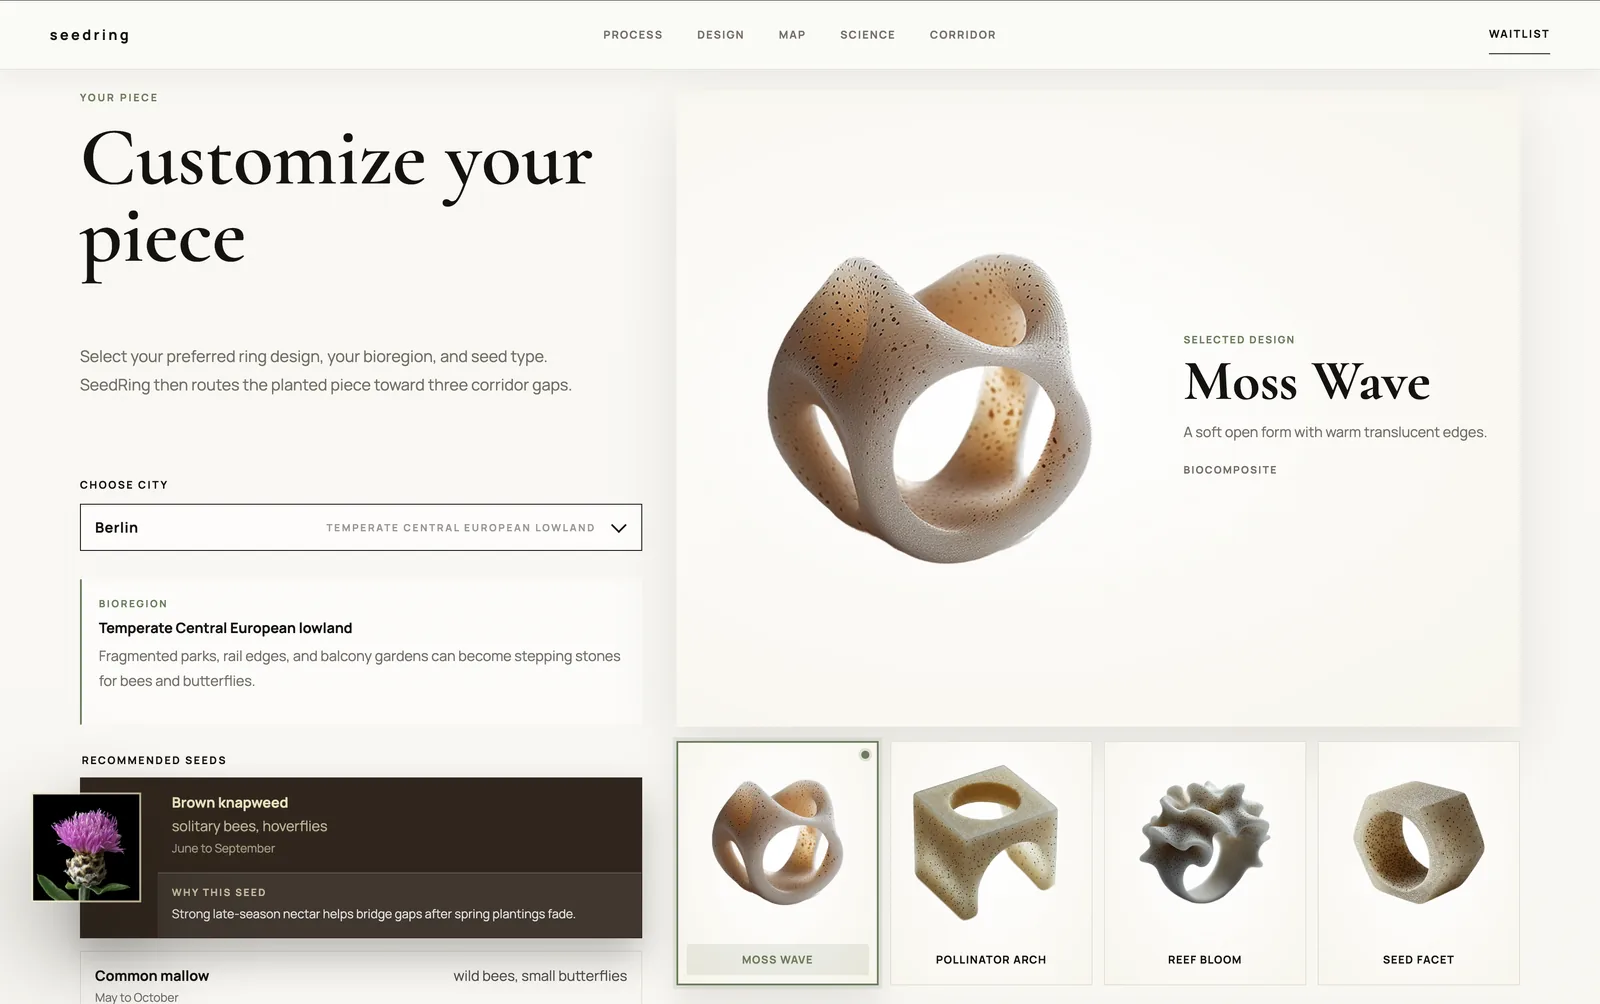
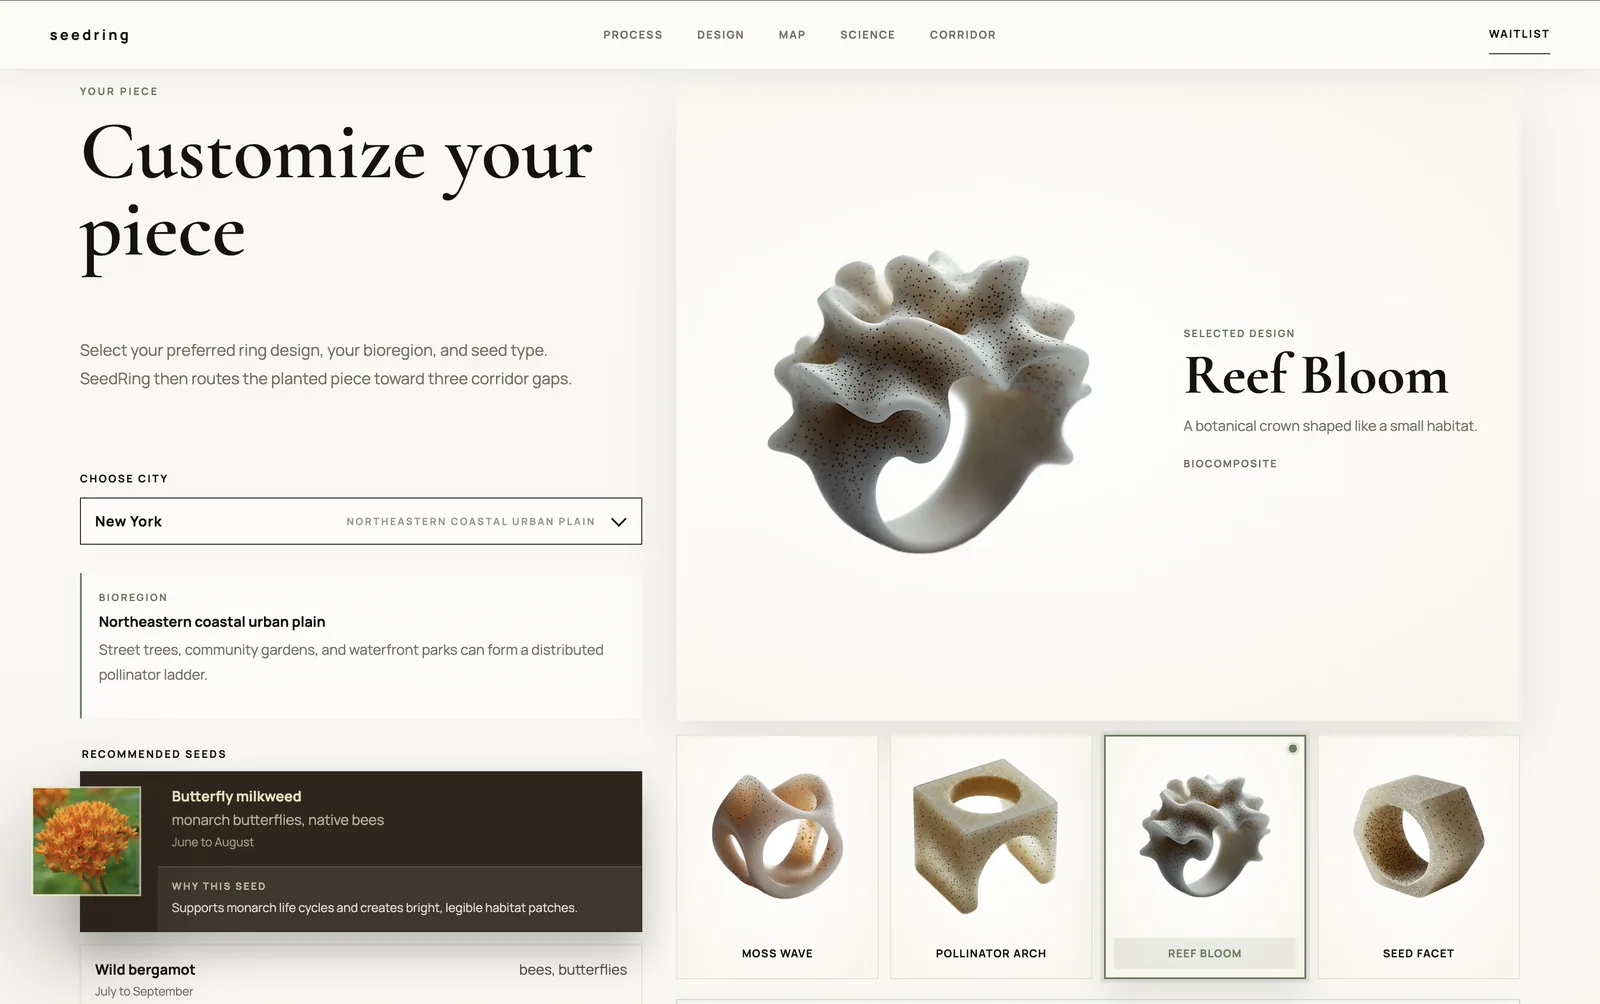
Refresh product screenshot galleries

diff --git a/products/seed-jewelry.md b/products/seed-jewelry.md
@@ -8,9 +8,13 @@ Seed Jewelry is a Vite and React marketing product for SeedRing, a biodegradable
 
 ## Product Screenshots
 
-| Homepage | Configurator | Science Section |
+| Process Story | Configurator | Planting Map |
 | --- | --- | --- |
-| ![Seed Jewelry homepage hero](../assets/screenshots/seed-jewelry/01-home-hero.webp) | ![Seed Jewelry configurator](../assets/screenshots/seed-jewelry/02-configurator.webp) | ![Seed Jewelry science section](../assets/screenshots/seed-jewelry/03-science-section.webp) |
+| ![Seed Jewelry process section](../assets/screenshots/seed-jewelry/01-process.webp) | ![Seed Jewelry configurator](../assets/screenshots/seed-jewelry/02-configurator.webp) | ![Seed Jewelry planting recommendation map](../assets/screenshots/seed-jewelry/03-map-recommendations.webp) |
+
+| Science Section |
+| --- |
+| ![Seed Jewelry science section](../assets/screenshots/seed-jewelry/04-science-section.webp) |
 
 ## Product Scope
 

diff --git a/products/start-yachts-project.md b/products/start-yachts-project.md
@@ -16,6 +16,10 @@ Start Yachts - Boat Marketplace combines scraping workflows, a Next.js frontend,
 | --- | --- |
 | ![Start Yachts boats for sale page](../assets/screenshots/start-yachts-project/04-boats-for-sale.webp) | ![Start Yachts service categories](../assets/screenshots/start-yachts-project/05-service-categories.webp) |
 
+| Listing Photos | Broker Contact Flow |
+| --- | --- |
+| ![Start Yachts listing photo gallery](../assets/screenshots/start-yachts-project/06-listing-photo-gallery.webp) | ![Start Yachts listing broker contact flow](../assets/screenshots/start-yachts-project/07-listing-broker-contact.webp) |
+
 ## Product Scope
 
 - Marketplace-oriented product for boat and yacht listings.